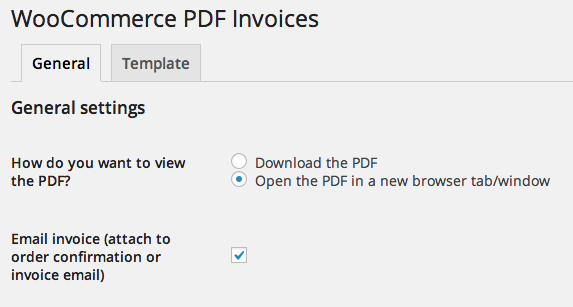
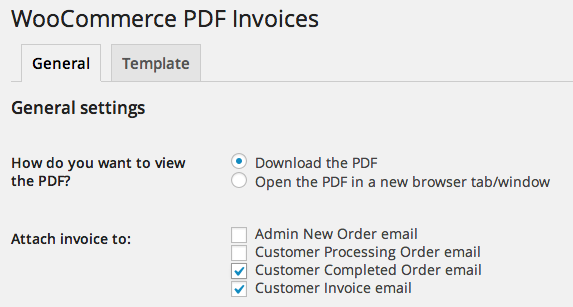
1.2.4
git-svn-id: https://plugins.svn.wordpress.org/woocommerce-pdf-invoices-packing-slips/trunk@858403 b8457f37-d9ea-0310-8a92-e5e31aec5664

Changed region(s): [[0.3857, 0.7329, 0.8604, 0.9674], [0.3857, 0.557, 0.9791, 0.6156], [0.0, 0.7622, 0.2967, 0.9381]]

diff --git a/includes/class-wcpdf-settings.php b/includes/class-wcpdf-settings.php
@@ -176,13 +176,19 @@ if ( ! class_exists( 'WooCommerce_PDF_Invoices_Settings' ) ) {
 
 			add_settings_field(
 				'email_pdf',
-				__( 'Email invoice (attach to order confirmation or invoice email)', 'wpo_wcpdf' ),
-				array( &$this, 'checkbox_element_callback' ),
+				__( 'Attach invoice to:', 'wpo_wcpdf' ),
+				array( &$this, 'multiple_checkbox_element_callback' ),
 				$option,
 				'general_settings',
 				array(
 					'menu'			=> $option,
 					'id'			=> 'email_pdf',
+					'options' 		=> array(
+						'new_order'			=> __( 'Admin New Order email' , 'wpo_wcpdf' ),
+						'processing'		=> __( 'Customer Processing Order email' , 'wpo_wcpdf' ),
+						'completed'			=> __( 'Customer Completed Order email' , 'wpo_wcpdf' ),
+						'customer_invoice'	=> __( 'Customer Invoice email' , 'wpo_wcpdf' ),
+					),
 					'description'	=> $tmp_path_check ? '<span class="wpo-warning">' . sprintf( __( 'It looks like the temp folder (<code>%s</code>) is not writable, check the permissions for this folder! Without having write access to this folder, the plugin will not be able to email invoices.', 'wpo_wcpdf' ), $tmp_path ).'</span>':'',
 				)
 			);
@@ -190,6 +196,16 @@ if ( ! class_exists( 'WooCommerce_PDF_Invoices_Settings' ) ) {
 			// Register settings.
 			register_setting( $option, $option, array( &$this, 'validate_options' ) );
 	
+			$option_values = get_option($option);
+			// convert old 'statusless' setting to new status array
+			if ( isset( $option_values['email_pdf'] ) && !is_array( $option_values['email_pdf'] ) ) {
+				$default_status = apply_filters( 'wpo_wcpdf_attach_to_status', 'completed' );
+				$option_values['email_pdf'] = array (
+						$default_status		=> 1,
+						'customer_invoice'	=> 1,
+					);
+				update_option( $option, $option_values );
+			}
 	
 			/**************************************/
 			/********** TEMPLATE SETTINGS *********/
@@ -420,14 +436,14 @@ if ( ! class_exists( 'WooCommerce_PDF_Invoices_Settings' ) ) {
 			// Register settings.
 			register_setting( $option, $option, array( &$this, 'validate_options' ) );
 
-			// Register defaults if settings empty (might not work in case there's only checkboxes and they're all disabled)
+			// Register defaults if settings empty
 			$option_values = get_option($option);
-			if ( empty( $option_values ) ) {
+			if ( !isset( $option_values['paper_size'] ) ) {
 				$this->default_settings();
 			}
 
 			// determine highest invoice number if option not set
-			if ( !isset($option_values['next_invoice_number']) ) {
+			if ( !isset( $option_values['next_invoice_number']) ) {
 				// Based on code from WooCommerce Sequential Order Numbers
 				global $wpdb;
 				// get highest invoice_number in postmeta table
@@ -456,7 +472,6 @@ if ( ! class_exists( 'WooCommerce_PDF_Invoices_Settings' ) ) {
 
 			$default_general = array(
 				'download_display'	=> 'download',
-				'email_pdf'			=> '1',
 			);
 
 			$default_template = array(
@@ -539,8 +554,6 @@ if ( ! class_exists( 'WooCommerce_PDF_Invoices_Settings' ) ) {
 		
 			$html = sprintf( '<input type="checkbox" id="%1$s" name="%2$s[%1$s]" value="1"%3$s />', $id, $menu, checked( 1, $current, false ) );
 		
-			//$html .= sprintf( '<label for="%s"> %s</label><br />', $id, __( 'Activate/Deactivate', 'wpo_wcpdf' ) );
-		
 			// Displays option description.
 			if ( isset( $args['description'] ) ) {
 				$html .= sprintf( '<p class="description">%s</p>', $args['description'] );
@@ -549,6 +562,31 @@ if ( ! class_exists( 'WooCommerce_PDF_Invoices_Settings' ) ) {
 			echo $html;
 		}
 		
+		/**
+		 * Multiple Checkbox field callback.
+		 *
+		 * @param  array $args Field arguments.
+		 *
+		 * @return string	  Checkbox field.
+		 */
+		public function multiple_checkbox_element_callback( $args ) {
+			$menu = $args['menu'];
+			$id = $args['id'];
+		
+			$options = get_option( $menu );
+		
+		
+			foreach ( $args['options'] as $key => $label ) {
+				$current = ( isset( $options[$id][$key] ) ) ? $options[$id][$key] : '';
+				printf( '<input type="checkbox" id="%1$s[%2$s][%3$s]" name="%1$s[%2$s][%3$s]" value="1"%4$s /> %5$s<br/>', $menu, $id, $key, checked( 1, $current, false ), $label );
+			}
+
+			// Displays option description.
+			if ( isset( $args['description'] ) ) {
+				printf( '<p class="description">%s</p>', $args['description'] );
+			}
+		}
+
 		/**
 		 * Select element callback.
 		 *
@@ -697,12 +735,15 @@ if ( ! class_exists( 'WooCommerce_PDF_Invoices_Settings' ) ) {
 		
 				// Check to see if the current option has a value. If so, process it.
 				if ( isset( $input[$key] ) ) {
-		
 					// Strip all HTML and PHP tags and properly handle quoted strings.
-					$output[$key] = strip_tags( $input[$key] );
-					
-					// Or alternatively: don't strip HTML! :o)
-					//$output[$key] = stripslashes( $input[$key] );
+					if ( is_array( $input[$key] ) ) {
+						foreach ( $input[$key] as $sub_key => $sub_value ) {
+							$output[$key][$sub_key] = strip_tags( $input[$key][$sub_key] );
+						}
+
+					} else {
+						$output[$key] = strip_tags( $input[$key] );
+					}
 				}
 			}
 		

diff --git a/includes/class-wcpdf-export.php b/includes/class-wcpdf-export.php
@@ -32,7 +32,7 @@ if ( ! class_exists( 'WooCommerce_PDF_Invoices_Export' ) ) {
 			$this->template_default_base_path = WooCommerce_PDF_Invoices::$plugin_path . 'templates/' . $this->template_directory_name . '/';
 			$this->template_default_base_uri = WooCommerce_PDF_Invoices::$plugin_url . 'templates/' . $this->template_directory_name . '/';
 
-			$this->template_path = $this->template_settings['template_path'];
+			$this->template_path = isset( $this->template_settings['template_path'] )?$this->template_settings['template_path']:'';
 
 			add_action( 'wp_ajax_generate_wpo_wcpdf', array($this, 'generate_pdf_ajax' ));
 			add_filter( 'woocommerce_email_attachments', array( $this, 'attach_pdf_to_email' ), 99, 3);
@@ -240,10 +240,24 @@ if ( ! class_exists( 'WooCommerce_PDF_Invoices_Export' ) ) {
 			// clear temp folder (from http://stackoverflow.com/a/13468943/1446634)
 			$tmp_path = WooCommerce_PDF_Invoices::$plugin_path . 'tmp/';
 			array_map('unlink', ( glob( $tmp_path.'*' ) ? glob( $tmp_path.'*' ) : array() ) );
-			
-			$order_status = apply_filters( 'wpo_wcpdf_attach_to_status', 'completed' );
 
-			if( isset( $status ) && ( $status=="customer_" . $order_status . "_order" || $status == "customer_invoice" ) ) {
+
+			// Relevant (default) statuses:
+			// new_order
+			// customer_invoice
+			// customer_processing_order
+			// customer_completed_order
+
+			$allowed_statuses = array_keys( $this->general_settings['email_pdf'] );
+			
+			foreach ($allowed_statuses as $key => $order_status) {
+				// convert 'lazy' status name
+				if ($order_status == 'completed' || $order_status == 'processing') {
+					$allowed_statuses[$key] = "customer_" . $order_status . "_order";
+				}
+			}
+
+			if( isset( $status ) && in_array ( $status, $allowed_statuses ) ) {
 				$order_number = ltrim( $order->get_order_number(), '#' );
 				$pdf_filename_prefix = __( 'invoice', 'wpo_wcpdf' );
 				$pdf_filename = $pdf_filename_prefix . '-' . $order_number . '.pdf';

diff --git a/woocommerce-pdf-invoices-packingslips.php b/woocommerce-pdf-invoices-packingslips.php
@@ -3,7 +3,7 @@
  * Plugin Name: WooCommerce PDF Invoices & Packing Slips
  * Plugin URI: http://www.wpovernight.com
  * Description: Create, print & email PDF invoices & packing slips for WooCommerce orders.
- * Version: 1.2.3
+ * Version: 1.2.4
  * Author: Ewout Fernhout
  * Author URI: http://www.wpovernight.com
  * License: GPLv2 or later
